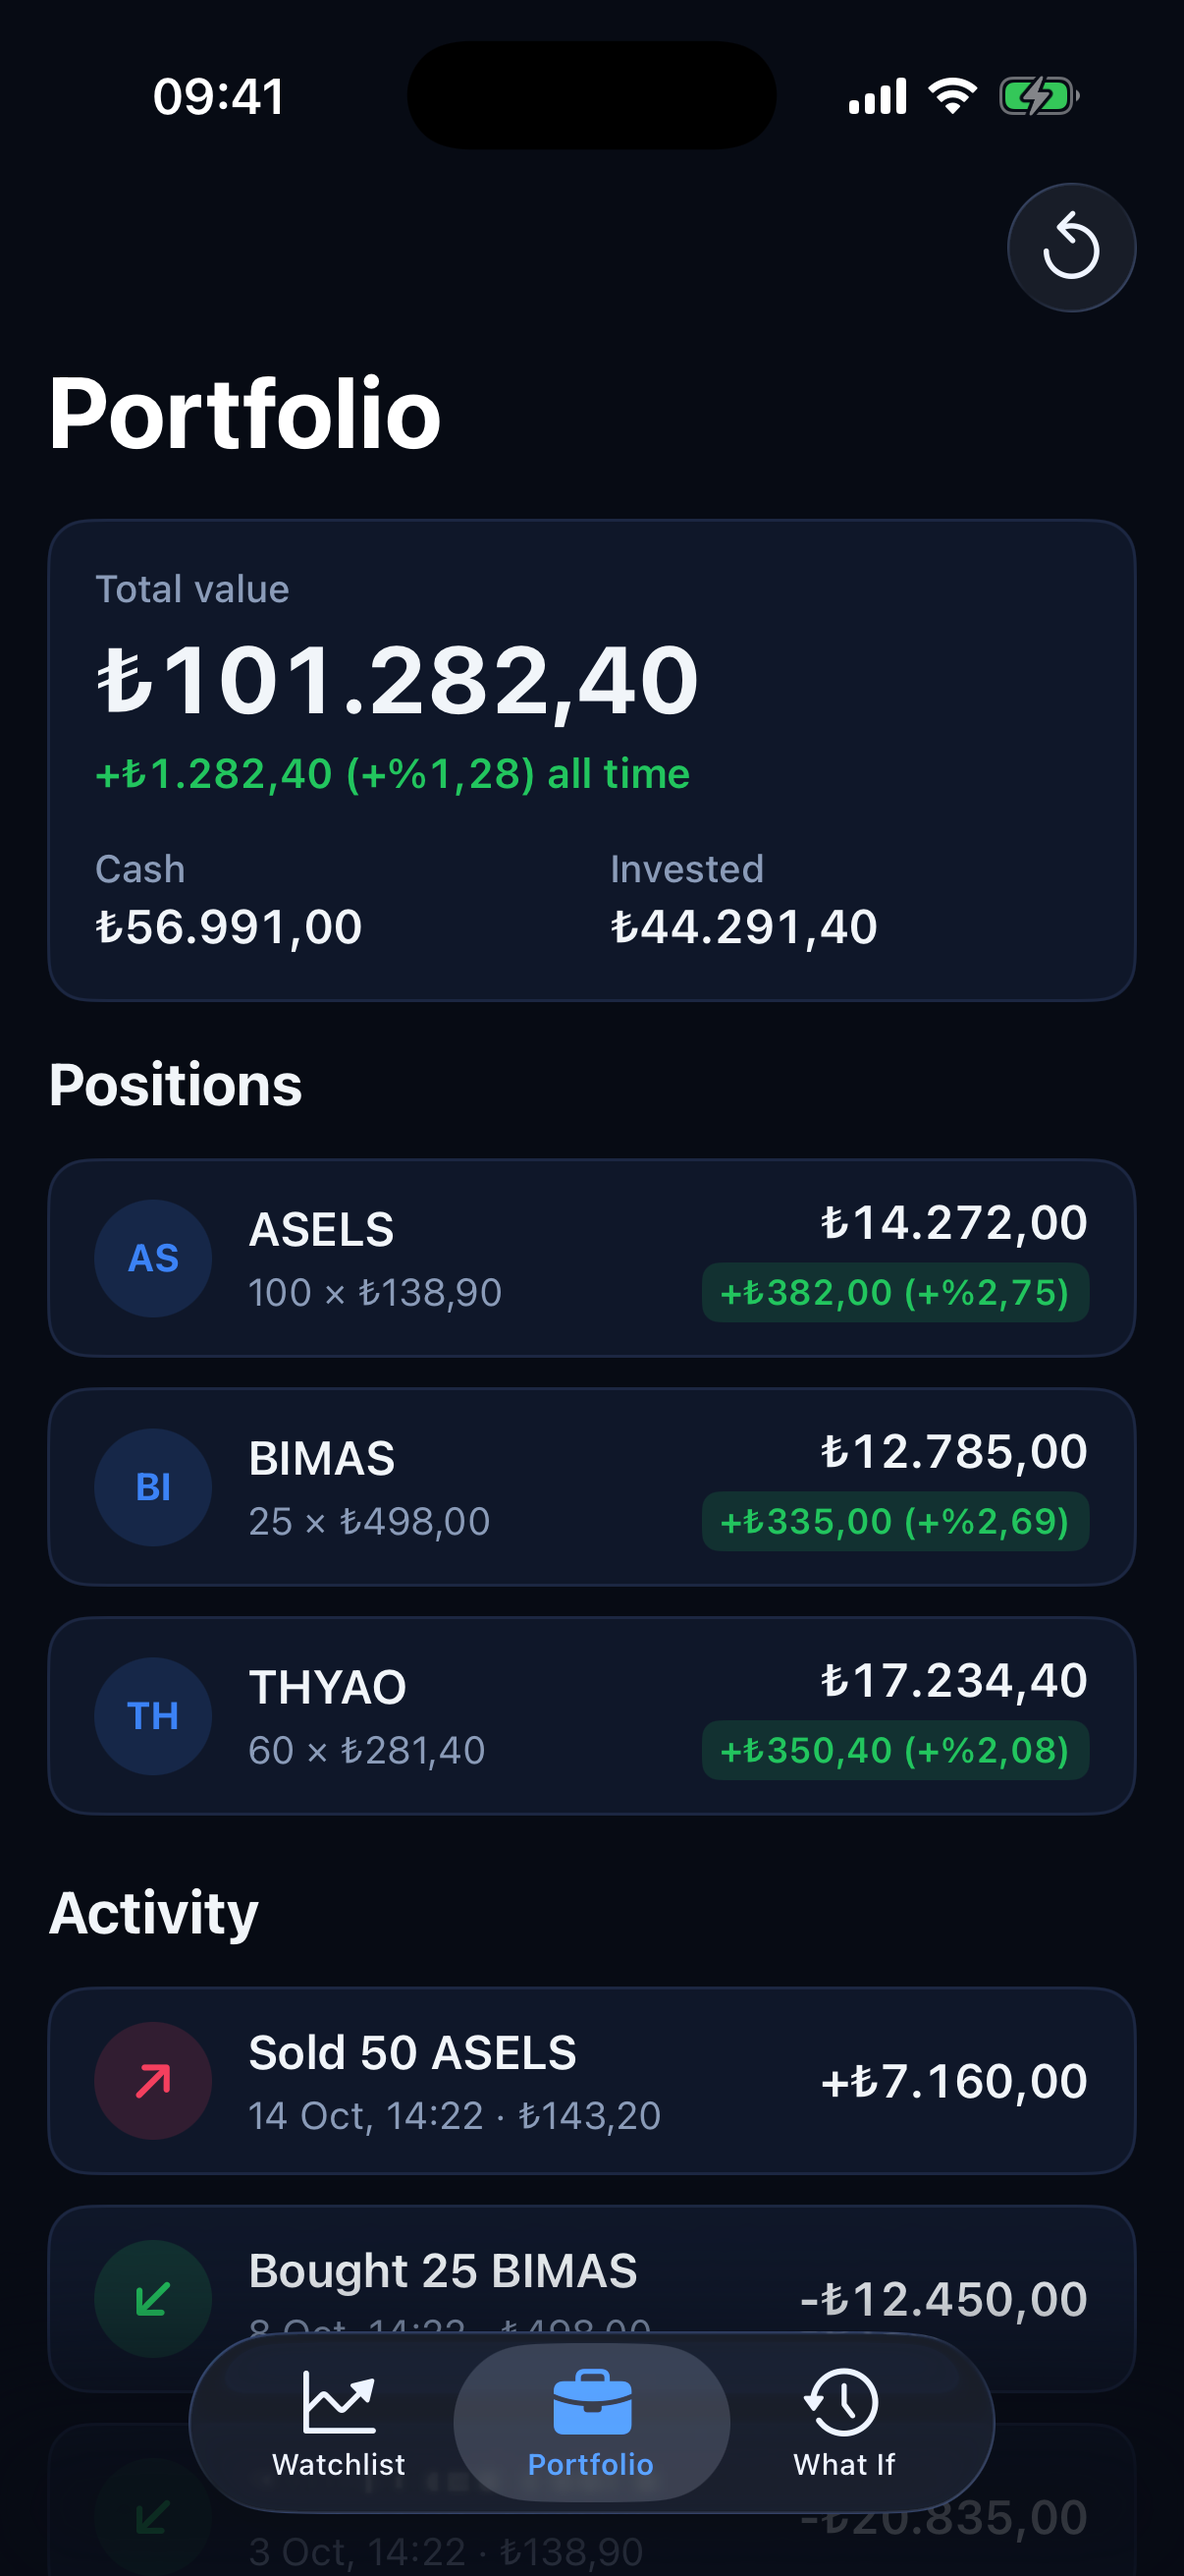
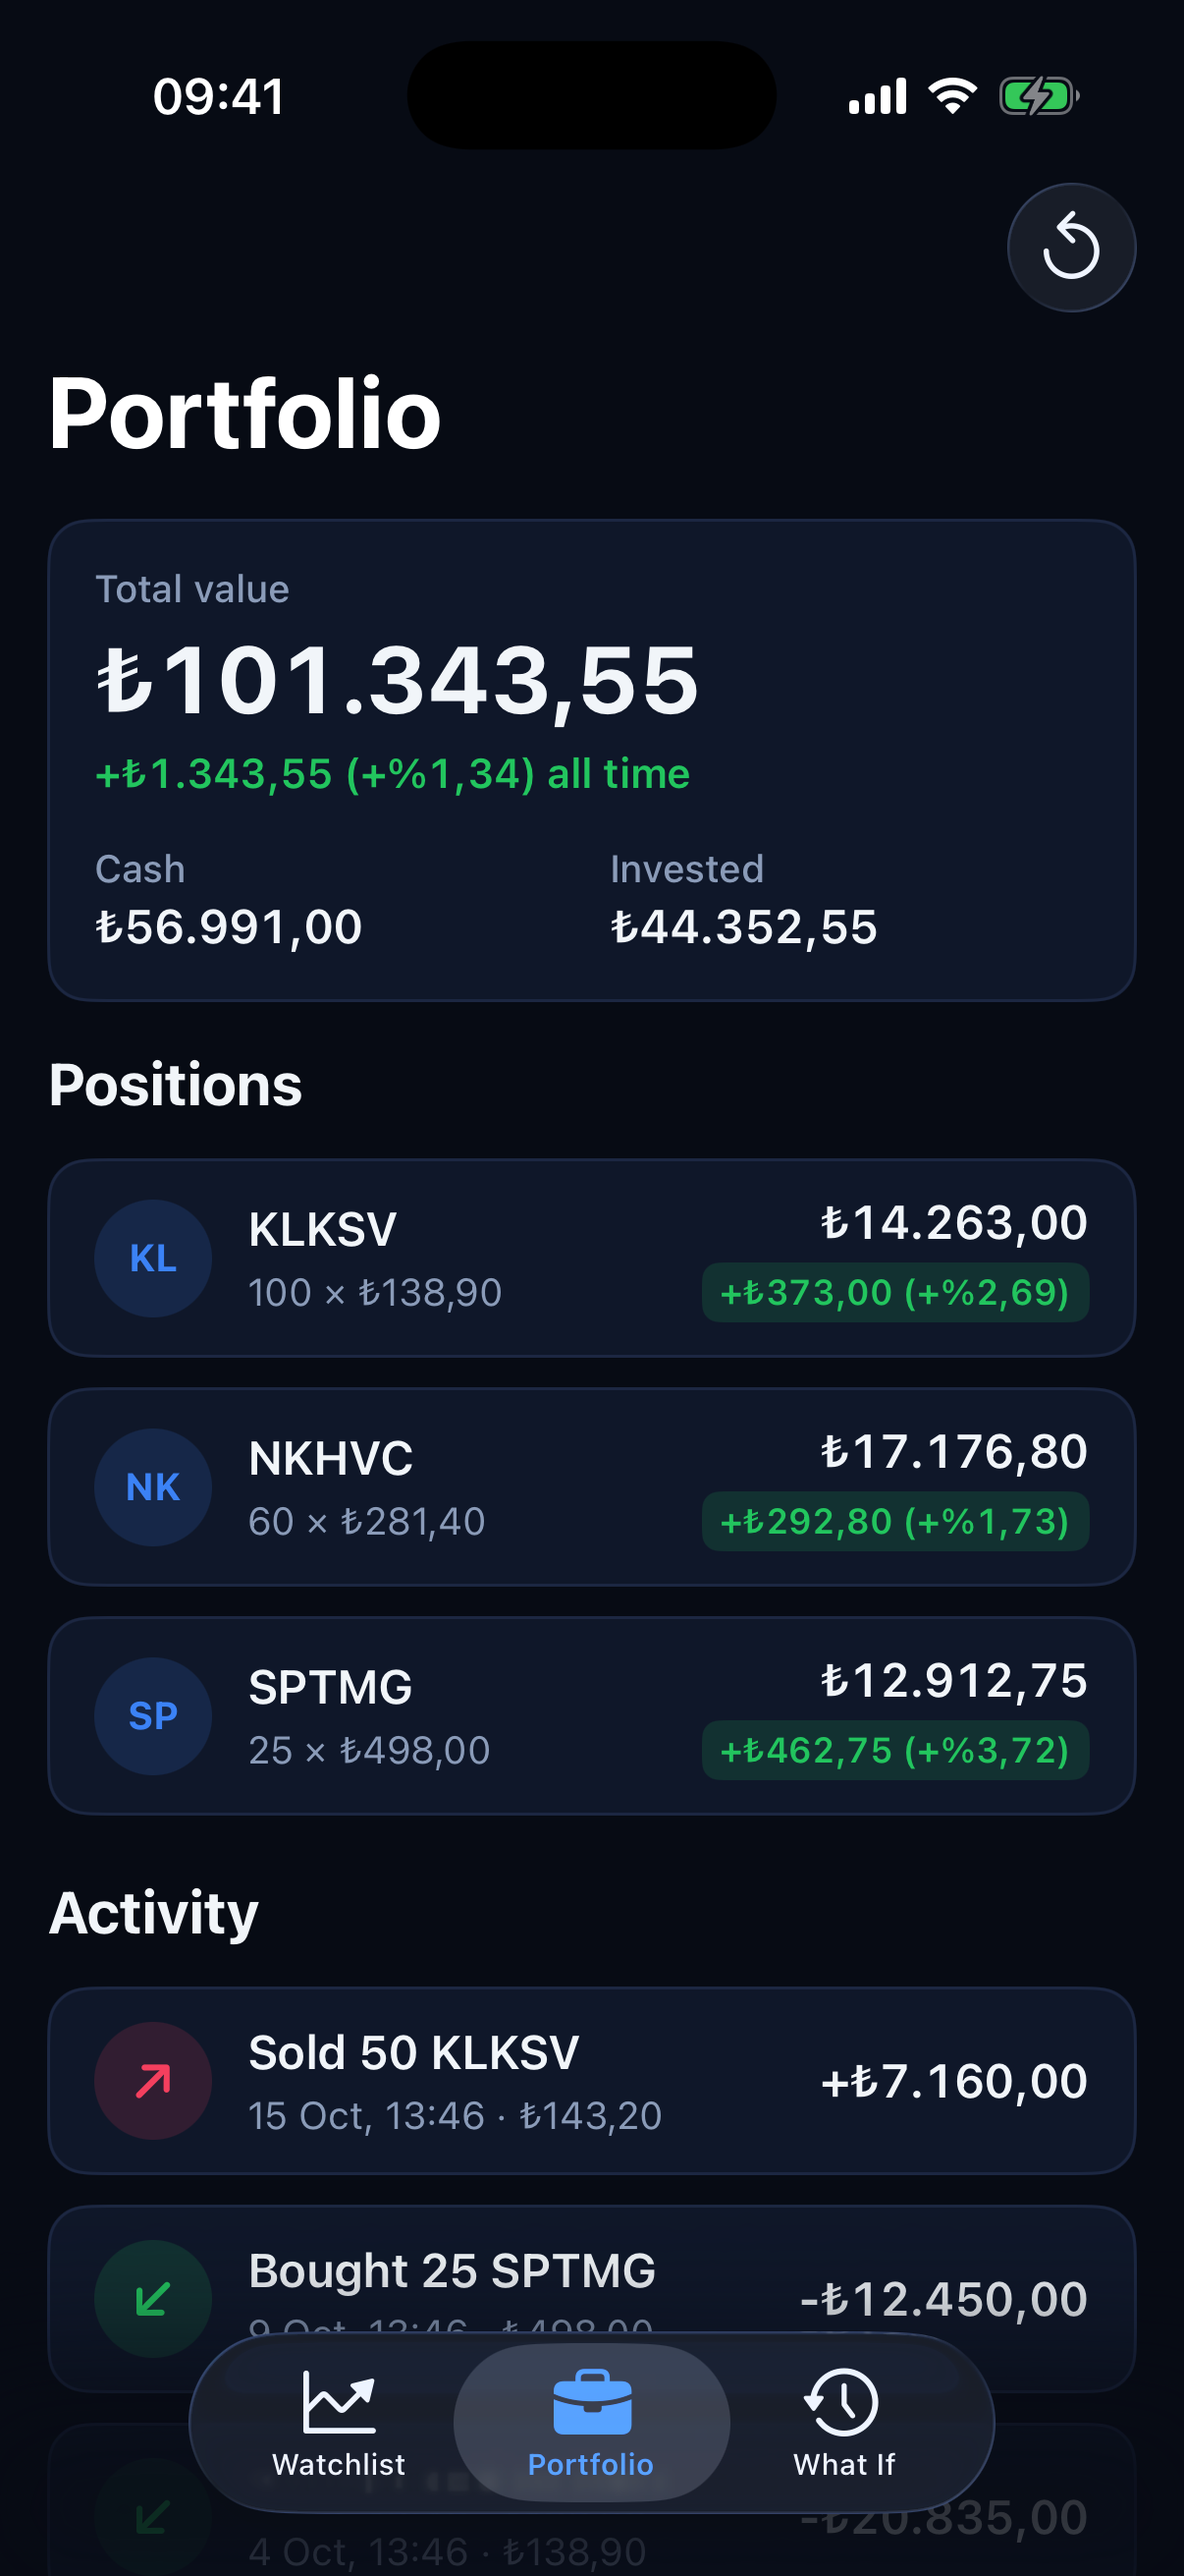
Phase 14.1: Distribution build screenshots, social images and fixes
- Screenshots and demo GIF of the distribution build (fictional companies, -distribution -demoData)
- New screens: first-launch About, GitHub, search, market controls, crash, halt, feed drop
- Social images for LinkedIn and Medium (docs/media/social)
- Fix: market controls stock chooser did nothing (menu released, weak self was nil)
- Fix: halt banner on the detail screen is part of the layout and no longer covers values or buttons
- Generic search texts (no real ticker in the placeholder)
- -showWelcome launch argument for screenshots
- README media section, PLAN (upload postponed) and Phase 14.1 notes

diff --git a/StockSim/StockSim/Composition/Debug/MarketControlsMenu.swift b/StockSim/StockSim/Composition/Debug/MarketControlsMenu.swift
@@ -25,15 +25,19 @@ final class MarketControlsMenu {
             preferredStyle: .actionSheet
         )
         sheet.addAction(action("Crash market −10%") { await $0.trigger(.crash(nil, percent: 10)) })
-        sheet.addAction(UIAlertAction(title: "Crash a stock −15%…", style: .default) { [weak self, weak presenter] _ in
-            guard let self, let presenter else { return }
+        sheet.addAction(UIAlertAction(title: "Crash a stock −15%…", style: .default) { [self, weak presenter] _ in
+            // self strong: menüyü başka kimse tutmuyor; weak olsaydı burada nil olurdu.
+            // Döngü yok: alert menüyü tutar, menü alert'i tutmaz.
+            guard let presenter else { return }
             self.chooseStock(title: "Crash which stock?", from: presenter) { simulator, symbol in
                 await simulator.trigger(.crash(symbol, percent: 15))
             }
         })
         sheet.addAction(action("Volatility spike ×6 (30 s)") { await $0.trigger(.volatilitySpike(multiplier: 6, duration: .seconds(30))) })
-        sheet.addAction(UIAlertAction(title: "Halt / resume a stock…", style: .default) { [weak self, weak presenter] _ in
-            guard let self, let presenter else { return }
+        sheet.addAction(UIAlertAction(title: "Halt / resume a stock…", style: .default) { [self, weak presenter] _ in
+            // self strong: menüyü başka kimse tutmuyor; weak olsaydı burada nil olurdu.
+            // Döngü yok: alert menüyü tutar, menü alert'i tutmaz.
+            guard let presenter else { return }
             self.chooseStock(title: "Halt or resume", from: presenter, toggleHalt: true) { simulator, symbol in
                 let halted = await simulator.isHalted(symbol)
                 await simulator.trigger(halted ? .resume(symbol) : .halt(symbol))

diff --git a/StockSim/StockSim/Scenes/StockDetail/StockDetailViewController.swift b/StockSim/StockSim/Scenes/StockDetail/StockDetailViewController.swift
@@ -77,7 +77,6 @@ final class StockDetailViewController: UIViewController {
         view.backgroundColor = Theme.Color.background
         setUpLayout()
         setUpStyleControl()
-        statusBanner.install(in: view)
         // Ekran kayarak gelirken başlık dolu olsun: async yükleme beklenmeden, senkron.
         interactor.prepare()
     }
@@ -147,7 +146,9 @@ final class StockDetailViewController: UIViewController {
         header.axis = .vertical
         header.spacing = Theme.Spacing.xs
 
-        let content = UIStackView(arrangedSubviews: [header, makeChartCard(), makePositionCard(), makeStatsRow(), makeTradeButtons()])
+        // Durum şeridi burada yüzen bir katman değil, akışın parçası: gizliyken yer kaplamaz,
+        // görünürken butonların hemen üstünde kendi yerini açar (hiçbir değeri kapatmaz).
+        let content = UIStackView(arrangedSubviews: [header, makeChartCard(), makePositionCard(), makeStatsRow(), statusBanner, makeTradeButtons()])
         content.axis = .vertical
         content.spacing = Theme.Spacing.l
         content.translatesAutoresizingMaskIntoConstraints = false

diff --git a/StockSim/StockSim/Scenes/StockSearch/StockSearchViewController.swift b/StockSim/StockSim/Scenes/StockSearch/StockSearchViewController.swift
@@ -53,7 +53,7 @@ final class StockSearchViewController: UIViewController {
         searchController.searchResultsUpdater = self
         searchController.obscuresBackgroundDuringPresentation = false
         searchController.hidesNavigationBarDuringPresentation = false
-        searchController.searchBar.placeholder = "Code or company, e.g. AKSA"
+        searchController.searchBar.placeholder = "Search by code or company"
         searchController.searchBar.autocapitalizationType = .allCharacters
         searchController.searchBar.autocorrectionType = .no
         navigationItem.searchController = searchController

diff --git a/StockSim/StockSim/Composition/AppAssembler.swift b/StockSim/StockSim/Composition/AppAssembler.swift
@@ -307,7 +307,9 @@ final class AppAssembler {
     }
 
     /// İlk açılışta bir kez göster (testlerde, demo ve yük testinde değil).
+    /// `-showWelcome`: ekran görüntüsü için her açılışta göster.
     func showAboutOnFirstLaunchIfNeeded() {
+        if ProcessInfo.processInfo.arguments.contains("-showWelcome") { return showAbout(isFirstLaunch: true) }
         guard !Self.usesInMemoryStorage, !UserDefaults.standard.bool(forKey: Self.hasSeenAboutKey) else { return }
         UserDefaults.standard.set(true, forKey: Self.hasSeenAboutKey)
         showAbout(isFirstLaunch: true)

diff --git a/StockSim/StockSim/Scenes/StockSearch/StockSearchPresenter.swift b/StockSim/StockSim/Scenes/StockSearch/StockSearchPresenter.swift
@@ -18,7 +18,7 @@ final class StockSearchPresenter: StockSearchPresentationLogic {
             viewModel = .init(
                 sectionTitle: suggestions.isEmpty ? nil : "Popular",
                 rows: rows(suggestions, watchlist: response.watchlist),
-                message: suggestions.isEmpty ? "Search Borsa Istanbul stocks by code or name." : nil,
+                message: suggestions.isEmpty ? "Search stocks by code or name." : nil,
                 isLoading: false
             )
         case .loading:

diff --git a/README.md b/README.md
@@ -5,22 +5,32 @@ A paper-trading stock app for iOS, built with **UIKit** and **Clean Swift (VIP)*
 > **Disclaimer:** Educational project. No real money is involved. Prices are simulated, or delayed real data in developer builds. The distributed (TestFlight) build uses fictional companies only. Nothing here is investment advice.
 
 <p align="center">
-  <img src="docs/media/demo.gif" width="300" alt="Live watchlist, stock detail and crosshair">
+  <img src="docs/media/demo.gif" width="300" alt="Live watchlist, stock detail with crosshair, candlesticks, portfolio and What If">
 </p>
 
-| Watchlist | Detail | Candles | Trade |
+| Watchlist | Detail | Candles + crosshair | Trade |
 |---|---|---|---|
-| <img src="docs/media/watchlist.png" width="190" alt="Watchlist"> | <img src="docs/media/detail-line.png" width="190" alt="Stock detail with line chart"> | <img src="docs/media/detail-candles.png" width="190" alt="Candlestick chart"> | <img src="docs/media/trade.png" width="190" alt="Buy sheet"> |
+| <img src="docs/media/watchlist.png" width="190" alt="Watchlist"> | <img src="docs/media/detail-line.png" width="190" alt="Stock detail with line chart"> | <img src="docs/media/detail-candles.png" width="190" alt="Candlestick chart with crosshair"> | <img src="docs/media/trade.png" width="190" alt="Buy sheet"> |
 
-| Portfolio | What If | Scenario |
-|---|---|---|
-| <img src="docs/media/portfolio.png" width="190" alt="Portfolio"> | <img src="docs/media/what-if.png" width="190" alt="What If scenarios"> | <img src="docs/media/what-if-builder.png" width="190" alt="What If scenario editor"> |
+| Portfolio | What If | Scenario | Search |
+|---|---|---|---|
+| <img src="docs/media/portfolio.png" width="190" alt="Portfolio"> | <img src="docs/media/what-if.png" width="190" alt="What If scenarios"> | <img src="docs/media/what-if-builder.png" width="190" alt="What If scenario editor"> | <img src="docs/media/search.png" width="190" alt="Add stocks"> |
 
-Screenshots use the simulated market with demo data (`-demoData`).
+**Edge cases** — triggered from the in-app market controls; every screen reacts through the normal price stream:
+
+<p align="center">
+  <img src="docs/media/social/edge-cases.png" width="800" alt="Market crash, trading halt, feed drop and market controls">
+</p>
+
+| First launch | Open source |
+|---|---|
+| <img src="docs/media/welcome.png" width="190" alt="About sheet on first launch: learning project, simulated market, not investment advice, privacy, open source"> | <img src="docs/media/github.png" width="190" alt="View source on GitHub opens the repository"> |
+
+Screenshots show the distribution build: fictional companies, simulated prices (`-distribution -demoData`).
 
 ## Features
 
-- **Watchlist** — live prices, daily change and sparklines; search Borsa Istanbul stocks, add, remove and reorder
+- **Watchlist** — live prices, daily change and sparklines; search, add, remove and reorder (Borsa Istanbul tickers in developer builds, fictional companies in the distribution build)
 - **Stock detail** — line and candlestick charts drawn by hand (Core Graphics / Core Animation), 1D · 1W · 1M · 1Y, crosshair with haptics, live position card
 - **Trading** — buy / sell with 100,000 TRY of virtual cash; insufficient cash / quantity and trading-halt rules
 - **Portfolio** — total value, all-time P&L, positions and trade history, saved on device
@@ -84,6 +94,7 @@ Open `StockSim/StockSim.xcodeproj` and run. Useful launch arguments:
 | `-inMemoryStorage` | Do not read or write saved data |
 | `-demoData` | Seeded demo account and scenarios (in memory), used for screenshots |
 | `-distribution` | Behave like the TestFlight build: fictional companies, simulator only (in memory) |
+| `-showWelcome` | Show the first-launch About sheet on every launch (for screenshots) |
 
 ## Progress
 
@@ -104,7 +115,7 @@ Open `StockSim/StockSim.xcodeproj` and run. Useful launch arguments:
 | 11 | Edge cases in the app | ✅ Done |
 | 12 | Performance | ✅ Done |
 | 13 | Polish & publish | ✅ Done |
-| 14 | TestFlight public beta | 🚧 Build ready, upload pending |
+| 14 | TestFlight public beta | 🚧 Build ready, upload postponed |
 
 See [PLAN.md](PLAN.md) for the full plan and [NOTES.md](NOTES.md) for learning notes (Turkish).
 

diff --git a/NOTES.md b/NOTES.md
@@ -286,3 +286,18 @@ Privacy manifest (`PrivacyInfo.xcprivacy`: takip yok, toplanan veri yok, `UserDe
 
 **Mülakat sorusu: Bir kodun Release'e girmediğini nasıl garanti edersin? `#if DEBUG` neden yetmeyebilir?**
 `#if DEBUG` sadece o dosyadaki kodu derlemeden çıkarır. Kodu çağıran yeri kapatırsın ama kodun kendisi başka bir modüldeyse (paket, framework) o modül yine derlenir ve link'lenir. Swift tip metadata'sı ve protocol conformance'lar dead strip ile silinmez; URL'ler ve string'ler binary'de kalır. Garanti için: (1) koşulu kodun yaşadığı modüle koy (SPM: `.define(..., .when(configuration: .debug))`) ya da modülü Release'de hiç link'leme, (2) iddiayı ölç: Release binary'sinde `strings` / `nm` ile ara (bizde 12 → 0 "yahoo"). İsteğe bağlı: CI'da bu kontrolü otomatik yapan bir adım.
+
+## Phase 14.1 — Ekran görüntüleri ve yakalanan hatalar
+
+TestFlight yüklemesi geliştirici hesabı sözleşmesi aktifleşene kadar ertelendi. Bu arada dağıtım derlemesinin (`-distribution -demoData`) tüm ekranları, demo GIF ve LinkedIn / Medium görselleri çekildi (`docs/media/social/`).
+
+**`[weak self]` her zaman doğru değil**
+"Crash a stock…" ve "Halt / resume…" Phase 11'den beri hiçbir şey yapmıyordu. `MarketControlsMenu` bir class; `MarketControlsMenu(...).present(from:)` satırından sonra onu tutan kimse kalmıyor, nesne siliniyor. Alert butonu `[weak self]` ile yakaladığı için basıldığında `self` artık `nil` → sessizce `return`. Çözüm: strong yakalamak. Döngü yok, çünkü alert menüyü (buton closure'ı üzerinden) tutuyor ama menü alert'i tutmuyor; alert kapanınca ikisi de serbest kalıyor.
+Ders: `weak` refleks değil, sahiplik sorusu: "Bu closure çalıştığında nesneyi başka kim tutuyor?" Cevap "kimse" ise weak bir hatadır.
+
+**Yüzen banner içeriği kapatıyordu**
+Detay ekranında "Trading halted" şeridi ekranın altına sabitlenmişti; önce devre dışı butonların, sonra High/Low değerlerinin üstüne bindi. Çözüm: şeridi içerik `UIStackView`'una koymak. `isHidden` olan görünüm stack'te yer kaplamaz; görününce butonların üstünde kendi yerini açar. Listede (Watchlist) yüzen kalmaya devam ediyor; orada içerik kaydırılabilir ve tek satır kapanması sorun değil.
+
+**Dağıtımda gerçek isim sızıntısı**
+Arama kutusunun placeholder'ı "e.g. AKSA" diyordu (gerçek kod). Ekran görüntüsü çekerken yakalandı; metinler genel yapıldı. Kurgusal evren sadece veride değil, arayüz metinlerinde de tutarlı olmalı.
+

diff --git a/PLAN.md b/PLAN.md
@@ -240,7 +240,8 @@ Decision: distribute through a **TestFlight public link**, not the App Store. Th
 - [x] Fictional companies in the distribution build, clear "SIMULATED" labeling; What If labeled as a simulation
 - [x] In-app "About" screen: educational simulation, not investment advice, no data collected, licenses
 - [x] Privacy policy page (no data collected) for App Store Connect
-- [ ] Archive, upload, beta app review, public link (steps in `docs/TESTFLIGHT.md`)
+- [ ] Archive, upload, beta app review, public link (steps in `docs/TESTFLIGHT.md`) — postponed until the developer account agreement is active
+- [x] Screenshots, demo GIF and social images of the distribution build (`docs/media/`, `docs/media/social/`)
 
 **Total:** ~50–60 h. Demo clips are collected under `docs/media/` at the end of each visual phase.
 
